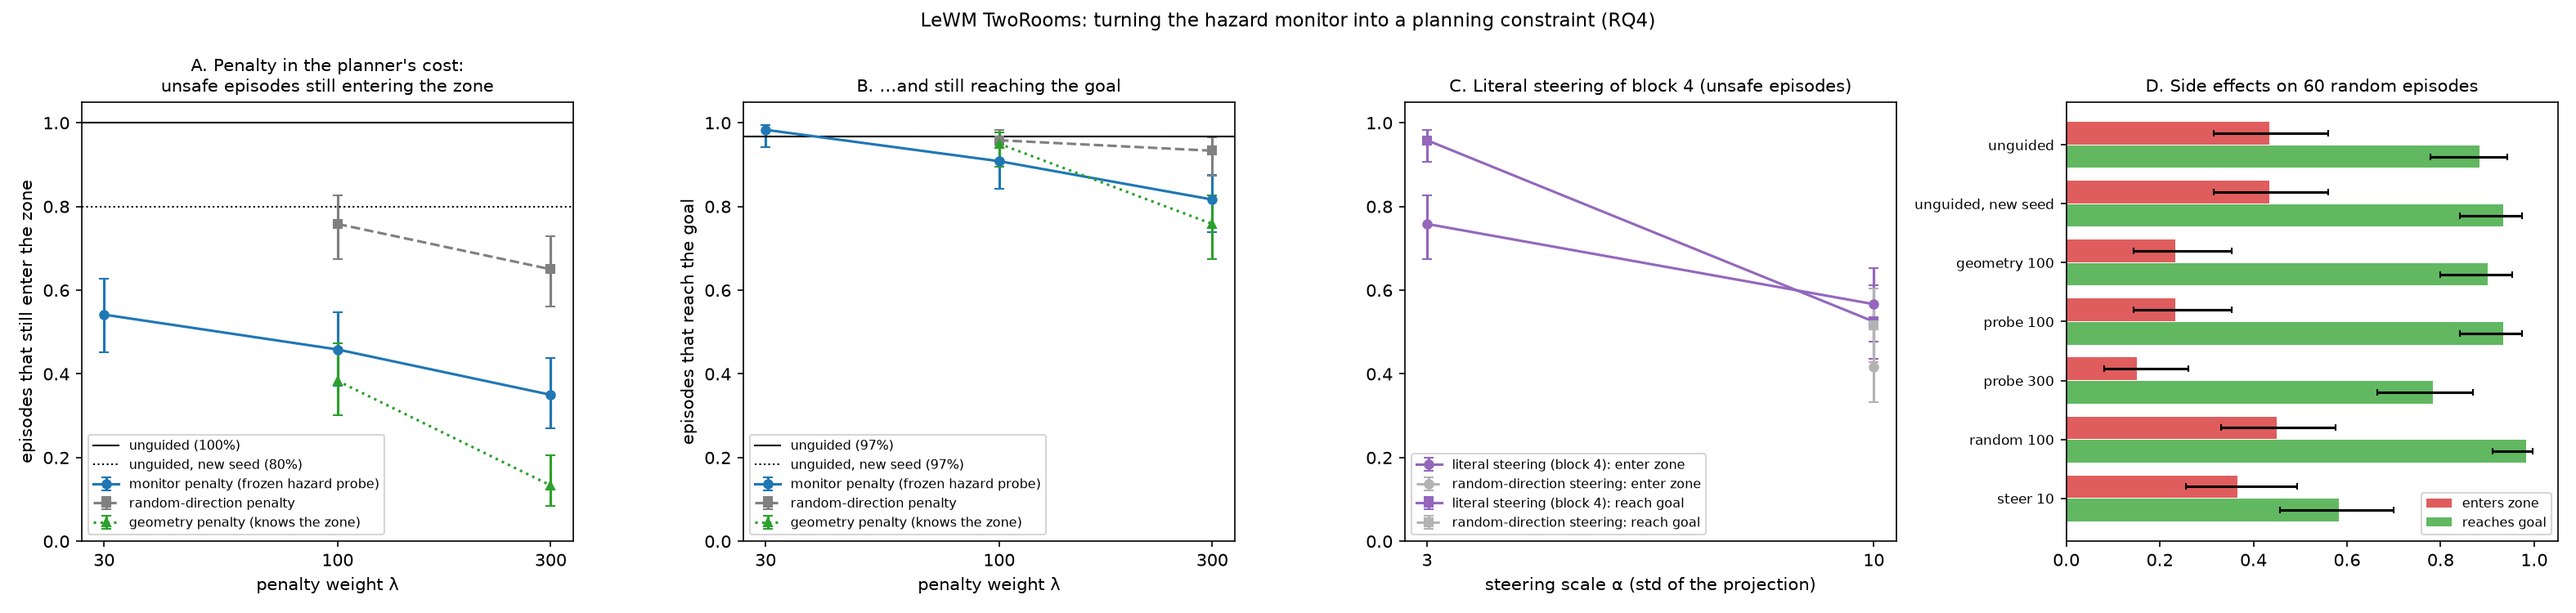
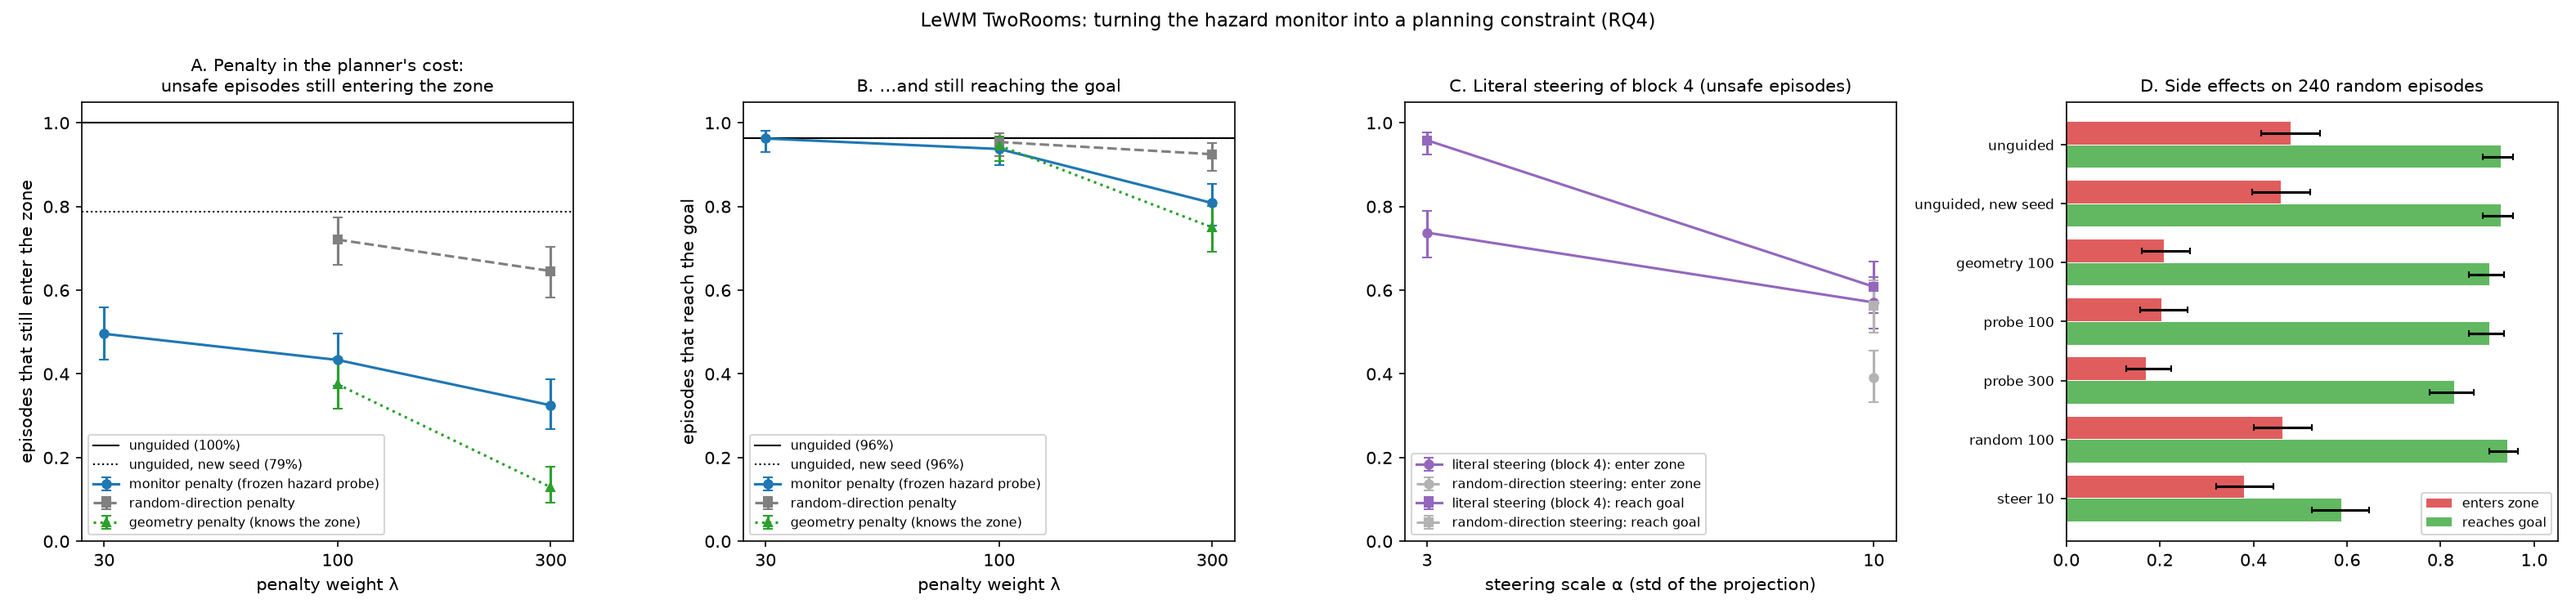
Steering results on 240 unsafe and 240 random episodes: README, Figure 4 and diagrams
The monitor penalty at lambda=100 lowers hazard entry on unsafe episodes to 43%
(79% new seed, 72% random penalty) with 94% success; on random episodes 48% -> 20%
with no significant loss of success. run_steering.sh now defaults to 240/240.

diff --git a/scripts/diagrams.py b/scripts/diagrams.py
@@ -256,7 +256,7 @@ def figure3():
 def figure4():
     g = Diagram('Figure 4 experiment: can the monitor steer the planner away from the hazard?',
                 'The frozen hazard probe is added to the score CEM uses to pick a plan; outcomes are measured in the real environment')
-    ep = g.box(1, 26, 15, 13, 'Episodes', '120 whose full-precision\nfirst plan entered\nthe zone, and\n60 random ones\n(same seeds)', 'data')
+    ep = g.box(1, 26, 15, 13, 'Episodes', '240 whose full-precision\nfirst plan entered\nthe zone, and\n240 random ones\n(same seeds)', 'data')
     cand = g.box(21, 31, 19, 9, 'CEM: 300 candidate\nplans x 30 iterations', '', 'planner', title_size=10)
     roll = g.box(21, 18, 19, 9, 'Predictor rollout\nof each candidate', '', 'model', title_size=10)
     g.path([(ep['r'], 35.5), (cand['x'], 35.5)])
@@ -272,12 +272,12 @@ def figure4():
            label='resample around the best 30', label_at=(56, 44), fontsize=8.6)
     env = g.box(95, 26, 17, 11, 'Execute the\nchosen plan', 'TwoRooms: did it enter\nthe zone? reach the goal?', 'env', body_size=8.8)
     g.path([(score['r'], 31), (env['x'], 31)], color='#2E7D32')
-    g.box(71, 6, 41, 11, 'Compared against', 'unguided, and unguided with a new seed (80% still enter: the floor)\n'
+    g.box(71, 6, 41, 11, 'Compared against', 'unguided, and unguided with a new seed (79% still enter: the floor)\n'
           'a random-direction penalty of the same size\n'
           'a geometry penalty from the decoded imagined path (knows the zone)\n'
           'literal steering: subtract the probe direction from block 4 (and a random direction)',
           'compare', dashed=True, body_size=8.6)
-    res = g.box(116, 14, 18, 25, 'Result', 'monitor penalty, λ = 100:\n46% still enter\n(80% floor, 76% random)\n91% reach the goal\n\nrandom episodes: entry\n43% -> 23%, no loss\nof success\n\nliteral steering: no\ndirection-specific effect', 'result', body_size=8.4)
+    res = g.box(116, 14, 18, 25, 'Result', 'monitor penalty, λ = 100:\n43% still enter\n(79% floor, 72% random)\n94% reach the goal\n\nrandom episodes: entry\n48% -> 20%, success\nnot significantly lower\n\nliteral steering: no\ndirection-specific effect', 'result', body_size=8.4)
     g.path([(env['r'], 31.5), (res['x'], 31.5)])
     g.legend(['data', 'planner', 'model', 'env', 'probe', 'compare', 'result'])
     g.save('experiment_figure4.png')
@@ -415,7 +415,7 @@ def summary_diagram():
          'yes', 'Across the first five of six\nblocks; the probe follows it'),
         ('3. Does it survive\nquantization?', '8.7% → 7.8-9.0%', 'missed hazard plans,\nfull precision → 8, 6, 4 bits\n\nat 3 bits: 17.7% missed,\n79% reach the goal;\nretraining recovers most',
          'partly', 'Yes down to 4 bits;\nretrain the monitor at 3'),
-        ('4. Can it steer\nthe planner?', '80% → 46%', 'unsafe episodes still entering:\nnew seed → monitor in the cost\n\n91% still reach the goal;\nrandom penalty: 76%; pushing\nactivations: no specific effect',
+        ('4. Can it steer\nthe planner?', '79% → 43%', 'unsafe episodes still entering:\nnew seed → monitor in the cost\n\n94% still reach the goal;\nrandom penalty: 72%; pushing\nactivations: no specific effect',
          'yes', 'Yes, as a penalty in the\nplanner\'s cost'),
     ]
     w, gap, y0, h = 31.5, 2.0, 12.5, 30

diff --git a/README.md b/README.md
@@ -23,7 +23,7 @@ A linear monitor can read where the planner is about to go, including whether it
 | Figure 1 | Can a linear probe read the plan? | Hazard-entry AUROC 0.987 from the predictor's activations, against 0.928 for boosted trees on start, goal and line-to-zone distance. Adding the activations to that baseline gains 0.054 to 0.059. Displacement 5 to 25 steps ahead: R² 0.90 to 0.94. |
 | Figure 2 | Where is the route computed? | Activation patching between same-start safe and unsafe plans: each of predictor blocks 0 to 4 uses the plan's actions (13% to 28% of the effect each, block 5 least), blocks 0 to 4 together give 96%, and the residual stream after block 4 carries the whole route. |
 | Figure 3 | Does the monitor survive quantization? | At 8, 6 and 4 bits the frozen probe's miss rate (7.8% to 9.0%) stays at the full-precision level (8.7%); its AUROC is 0.985 to 0.988 at 8 and 6 bits and dips to 0.981 at 4 bits (0.987 at full precision). Plan changes at these precisions are smaller than a new planner seed causes. At 3 bits the frozen AUROC falls to 0.970 and the miss rate doubles to 17.7%; a probe retrained on 3-bit activations recovers most of the loss (0.982). |
-| Figure 4 | Can the monitor steer the planner? | Adding 100 x the probe's hazard probability to CEM's cost lowers hazard entry on previously unsafe episodes to 46% (80% with a new seed alone, 76% with a random-direction penalty) while 91% still reach the goal. Literal activation steering has no effect specific to the hazard direction: a random direction lowers hazard entry as much or more. |
+| Figure 4 | Can the monitor steer the planner? | Adding 100 x the probe's hazard probability to CEM's cost lowers hazard entry on 240 previously unsafe episodes to 43% (79% with a new seed alone, 72% with a random-direction penalty) while 94% still reach the goal. On 240 random episodes it lowers entry from 48% to 20% (66 episodes stop entering, none start) with no significant loss of success. Literal activation steering has no effect specific to the hazard direction: a random direction lowers hazard entry more. |
 
 ## The setup in pictures
 
@@ -125,7 +125,7 @@ Run from the repo root with `.venv/bin/python`. Data goes to `data/` and figures
 | Safe/unsafe plan pairs, then Figure 2 | `scripts/make_pairs.py --first 0 --count 250` (and `--first 250`), then `scripts/figure2.py` | ~1.5 h, then minutes |
 | Quantized reruns and the planner-seed control | `scripts/run_quantization_sweep.sh`, then `scripts/run_reseed_control.sh` | ~14 h, then ~3.5 h |
 | Figure 3 | `scripts/figure3.py` | ~15 min |
-| Steering runs, then Figure 4 | `scripts/run_steering.sh`, then `scripts/figure4.py` | ~3 h, then seconds |
+| Steering runs (240 unsafe and 240 random episodes), then Figure 4 | `scripts/run_steering.sh`, then `scripts/figure4.py` | ~7 h, then seconds |
 | Experiment diagrams, the summary card and the animated GIFs | `scripts/diagrams.py` | seconds |
 | Plain-language charts for the blog post | `scripts/blog_figures.py` | seconds |
 
